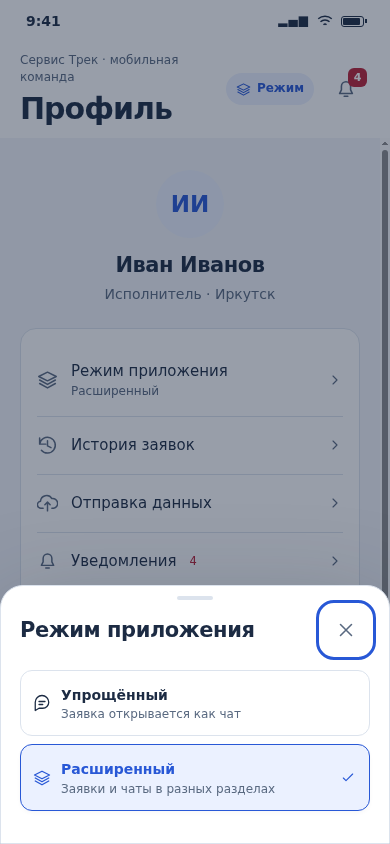
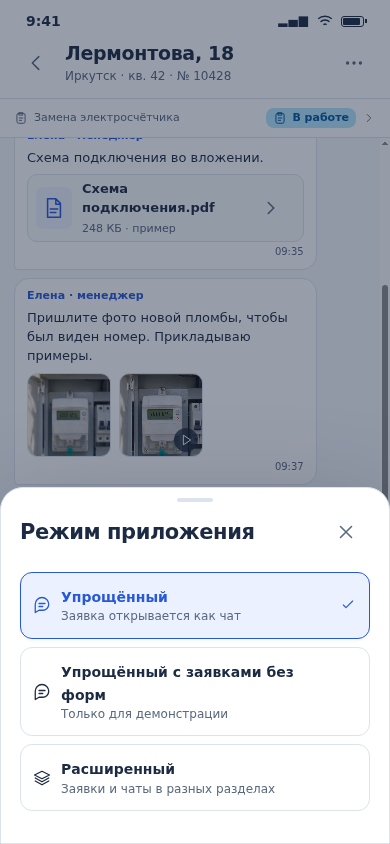
fix mobile v2

diff --git a/mobile/redesign/v2/conversations.js b/mobile/redesign/v2/conversations.js
@@ -60,19 +60,16 @@
       minute = Math.max(minute, m.order);
     }
   };
-  K.modes = {simple: 'Упрощённый', expanded: 'Расширенный'};
   K.studioModes = {
-    simple: K.modes.simple,
-    'simple-no-forms': 'Упрощённый с заявками без форм',
-    expanded: K.modes.expanded,
+    simple: {title: 'Упрощённый', description: 'Заявка открывается как чат'},
+    'simple-no-forms': {title: 'Упрощённый с заявками без форм', description: 'Только для демонстрации'},
+    expanded: {title: 'Расширенный', description: 'Заявки и чаты в разных разделах'},
   };
   K.modeChoices = (inApp = false) => {
-    const selected = inApp ? s.mode : s.studioMode;
-    return Object.entries(inApp ? K.modes : K.studioModes)
-      .map(([key, title]) => {
-        const expanded = key === 'expanded';
-        const description = expanded ? 'Заявки и чаты в разных разделах' : 'Заявка открывается как чат';
-        return `<button class="mode-choice" data-action="set-mode" data-mode="${key}" aria-pressed="${selected === key}">${I(expanded ? 'layers' : 'chat')}<span><strong>${title}</strong>${inApp ? '<small>' + description + '</small>' : ''}</span><i>${selected === key ? I('check') : ''}</i></button>`;
+    return Object.entries(K.studioModes)
+      .map(([key, {title, description}]) => {
+        const selected = s.studioMode === key;
+        return `<button class="mode-choice" data-action="set-mode" data-mode="${key}" aria-pressed="${selected}">${I(key === 'expanded' ? 'layers' : 'chat')}<span><strong>${title}</strong>${inApp ? '<small>' + description + '</small>' : ''}</span><i>${selected ? I('check') : ''}</i></button>`;
       })
       .join('');
   };

diff --git a/mobile/redesign/v2/app.js b/mobile/redesign/v2/app.js
@@ -115,7 +115,7 @@
           : `<a href="${K.href(screen, id)}" ${s.screen === screen && (screen !== 'chat' || s.id === id) ? 'aria-current="page"' : ''}>${K.icon(icon)}${label}</a>`,
       )
       .join('');
-    $('#live-title').textContent = K.studioModes[s.studioMode];
+    $('#live-title').textContent = K.studioModes[s.studioMode].title;
     $('#studio-network').textContent = s.offline ? 'Восстановить связь' : 'Показать без сети';
     const list = [...mineLists, ...allLists, 'inbox', 'chats'].includes(s.screen);
     const target = list ? (simple ? 'chat' : 'chats') : home;
@@ -407,10 +407,7 @@
       localStorage.setItem(modeKey, mode);
     } catch {}
     if ($('#sheet').open) closeSheet();
-    if (same) {
-      render();
-      return;
-    }
+    if (same) return;
     const working = ['chat', 'detail', 'work', 'stages', 'review', 'delay', 'complete'].includes(s.screen);
     const target = working ? (s.mode === 'simple' ? 'chat' : 'detail') : home();
     go(target);
@@ -460,10 +457,7 @@
   }
   const actions = {
     'mode-menu': () => sheet('Режим приложения', '<div class="mode-options">' + K.modeChoices(true) + '</div>'),
-    'set-mode': (button) => {
-      if ($('#sheet').contains(button) && button.dataset.mode === s.mode) return closeSheet();
-      goToMode(button.dataset.mode);
-    },
+    'set-mode': (button) => goToMode(button.dataset.mode),
     'chat-group-menu': () => sheet('Группировка чатов', K.chatGroups.choices()),
     'set-chat-group': (button) => {
       const value = button.dataset.chatGrouping;

diff --git a/mobile/redesign/v2/screens.js b/mobile/redesign/v2/screens.js
@@ -261,7 +261,7 @@ Kontur.screens = {
     const K = Kontur;
     return (
       K.header('Профиль') +
-      `<div class="scroll-content"><div class="profile-hero"><span class="avatar">ИИ</span><h2>Иван Иванов</h2><p>Исполнитель · Иркутск</p></div><div class="panel"><button class="menu-row" data-action="mode-menu">${K.icon('layers')}<span>Режим приложения<small>${K.modes[K.state.mode]}</small></span>${K.icon('chevron')}</button>${[
+      `<div class="scroll-content"><div class="profile-hero"><span class="avatar">ИИ</span><h2>Иван Иванов</h2><p>Исполнитель · Иркутск</p></div><div class="panel"><button class="menu-row" data-action="mode-menu">${K.icon('layers')}<span>Режим приложения<small>${K.studioModes[K.state.studioMode].title}</small></span>${K.icon('chevron')}</button>${[
         ['history', 'История заявок', 'history'],
         ['cloud', 'Отправка данных', 'sync'],
       ]

diff --git a/mobile/redesign/v2/README.md b/mobile/redesign/v2/README.md
@@ -12,7 +12,7 @@
 
 При первом открытии выбран упрощённый режим. Кнопка **«Режим»** есть на главном экране, пункт **«Режим приложения»** — в профиле и меню диалога. При смене режима из открытой заявки сохраняется её номер. Переписка, неотправленный текст, выбранные файлы и поля отчёта привязаны к этой заявке. Выбор режима запоминается в браузере. [Переключатель режимов](previews/modes.png).
 
-В левой панели макета кнопка **«Упрощённый с заявками без форм»** показывает те же назначения с перепиской без рабочих шагов. Откройте любой адрес в «Моих заявках», чтобы написать менеджеру или приложить файл. Можно открыть и завершённый диалог в «Архиве». [Открыть список](index.html?mode=simple-no-forms#inbox) · [Чат заявки № 10428](index.html?mode=simple-no-forms#chat/10428) · [Снимок макета](previews/overview-no-forms.png).
+В окне **«Режим приложения»** выберите **«Упрощённый с заявками без форм»** с подписью «Только для демонстрации». Этот же вариант доступен в левой панели макета. Откройте любой адрес в «Моих заявках», чтобы написать менеджеру или приложить файл. Можно открыть и завершённый диалог в «Архиве». [Открыть список](index.html?mode=simple-no-forms#inbox) · [Чат заявки № 10428](index.html?mode=simple-no-forms#chat/10428) · [Снимок макета](previews/overview-no-forms.png).
 
 В упрощённом режиме откройте в «Моих заявках» один из примеров. Шаги задаются в веб-интерфейсе системы, а макет воспроизводит эту настройку в данных каждой заявки.
 
